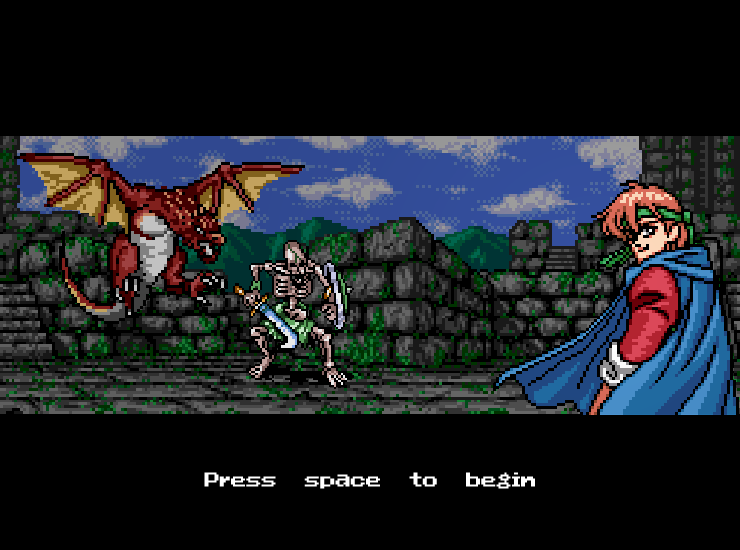
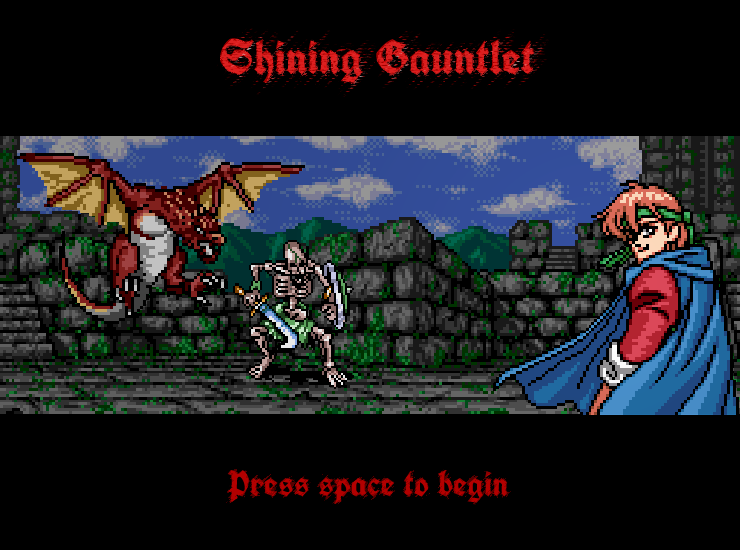
Added scenes between worlds, more NPCs, level 11

Changed region(s): [[0.2797, 0.0618, 0.7459, 0.1545], [0.2797, 0.8345, 0.7459, 0.9273]]

diff --git a/js/src/Game.js b/js/src/Game.js
@@ -18,7 +18,12 @@
 				themes ,
 				mapnum = 1 ,
 				showIntro = true,
-				gameStarted = false,
+				gameRunning = false,
+				worldscenes = [
+					[2,3],
+					[4,5],
+					[6,7]
+				],
 				tick = function(){
 				  //Renderer.clear();
 				  Gauntlet.Player.move();
@@ -26,6 +31,7 @@
 				  Gauntlet.MonsterSpawnerCollection.moveAllMonsters();
 				  Gauntlet.MissileLauncher.moveMissiles();
 				  Gauntlet.Renderer.render();
+				  Gauntlet.Stage.updateTime();
 				  if( Gauntlet.Boss.isActive() ){
 					Gauntlet.Boss.fire();
 					Gauntlet.Boss.moveMissiles();
@@ -70,16 +76,17 @@
 								}
 								// start tick
 								tick();
-								gameStarted = true;
+								gameRunning = true;
 							}
 							// listen for keyboard input
 							Gauntlet.Controller.listen();
 							// if showing the intro, restore themes, load scene 0
 							if( showIntro ){
 								restoreThemes();
-								Gauntlet.Scene.showAndWait( 0 , function(){
+								Gauntlet.Scene.showSequenceAndWait([0,1], function(){
 									nextTheme();
 									startTheGame();
+									Gauntlet.Stage.resetTime();
 									Gauntlet.Renderer.setLightning(true);
 								});
 								showIntro = false;
@@ -94,27 +101,35 @@
 				  window.clearTimeout( t );
 				},
 				nextLevel = function(){
-				  var nextWorld = ((mapnum % levelsperworld) === 0);
-				  stop();
-				  killAllSprites();
-				  mapnum++;
-				  if(mapnum === 2){
-				  	Gauntlet.Renderer.setShake(true);
-				  }
-				  if(mapnum === 4){
-				  	Gauntlet.Renderer.setShake(false);
-					Gauntlet.Renderer.setLightning(false);
-				  }
-				  if( mapnum === 9 ){
-				  	nextTheme();
-				  }
-				  if(nextWorld){
-				  	nextTheme();
-				  	if( mapnum === 7 || mapnum === 10 ){
-				  	  Gauntlet.Player.upgradeWeapon();
-				    }
-				  }
-				  start();
+					var nextWorld = ((mapnum % levelsperworld) === 0),
+						worldnum = ~~((mapnum) / levelsperworld);
+					stop();
+					killAllSprites();
+					Gauntlet.Dialog.killAll();
+					mapnum++;
+					if(mapnum === 2){
+						Gauntlet.Renderer.setShake(true);
+					}
+					if(mapnum === 4){
+						Gauntlet.Renderer.setShake(false);
+						Gauntlet.Renderer.setLightning(false);
+					}
+					if(mapnum === 9){
+						nextTheme();
+					}
+					if(nextWorld){
+						gameRunning = false;
+						Gauntlet.Scene.showSequenceAndWait(worldscenes[worldnum-1],function(){
+							nextTheme();
+							if(mapnum === 7 || mapnum === 10){
+								Gauntlet.Player.upgradeWeapon();
+							}
+							gameRunning = true;
+							start();
+						});
+					}else{
+						start();
+					}
 				},
 				restartLevel = function(){
 					stop();
@@ -143,7 +158,7 @@
 				 * returns true if the game is in progress - used by Controller to switch between showing a Scene or controlling the player
 				 */
 				gameInProgress = function(){
-					return gameStarted;
+					return gameRunning;
 				},
 				/**
 				 * end
@@ -155,7 +170,7 @@
 					Gauntlet.Player.reset();
 					mapnum = 1;
 					showIntro = true;
-					gameStarted = false;
+					gameRunning = false;
 					start();
 				},
 				killAllSprites = function(){

diff --git a/css/game.css b/css/game.css
@@ -28,7 +28,7 @@ h1 {
   width: 150px;
   height: 16px;
   display:inline-block;
-  outline:1px solid red;
+  outline:1px solid #C33;
   position:relative;
   top: 2px;
 }
@@ -36,7 +36,7 @@ h1 {
   position: absolute;
   height: 16px;
   width: 0;
-  background: red;
+  background: #C33;
 }
 .lives {
   color: red;
@@ -46,7 +46,6 @@ h1 {
   position: absolute;
   top: 5px;
   height:20px;
-  color: #fff;
   width: 734px;
   padding: 5px 5px;
 }
@@ -66,23 +65,36 @@ body {
   position: relative;
 }
 .dialog-message {
-  background: #111;
-  padding: 5px 10px;
-  color: white;
-  max-width:120px;
+  padding: 5px 7px;
+  max-width: 140px;
   -webkit-box-shadow: inset 0px 0px 5px rgba(0, 0, 0, 1);
   -moz-box-shadow:    inset 0px 0px 5px rgba(0, 0, 0, 1);
   box-shadow:         inset 0px 0px 5px rgba(0, 0, 0, 1);
-  text-shadow: 1px 1px 3px #000000;
+  -webkit-border-radius: 6px;
+  -moz-border-radius:    6px;
+  border-radius:         6px;
+  background: #000022;
+  background: -moz-linear-gradient(top,  #000022 0%, #154770 50%, #11426b 51%, #000022 100%); /* FF3.6+ */
+  background: -webkit-gradient(linear, left top, left bottom, color-stop(0%,#000022), color-stop(50%,#154770), color-stop(51%,#11426b), color-stop(100%,#000022)); /* Chrome,Safari4+ */
+  background: -webkit-linear-gradient(top,  #000022 0%,#154770 50%,#11426b 51%,#000022 100%); /* Chrome10+,Safari5.1+ */
+  background: -o-linear-gradient(top,  #000022 0%,#154770 50%,#11426b 51%,#000022 100%); /* Opera 11.10+ */
+  background: -ms-linear-gradient(top,  #000022 0%,#154770 50%,#11426b 51%,#000022 100%); /* IE10+ */
+  background: linear-gradient(top,  #000022 0%,#154770 50%,#11426b 51%,#000022 100%); /* W3C */
+  filter: progid:DXImageTransform.Microsoft.gradient( startColorstr='#000022', endColorstr='#000022',GradientType=0 ); /* IE6-9 */
+  -webkit-box-shadow: 0px 0px 7px 0px rgba(150, 150, 255, 1);
+  -moz-box-shadow: 0px 0px 7px 0px rgba(150, 150, 255, 1);
+  box-shadow: 0px 0px 7px 0px rgba(150, 150, 255, 1);
   border: 1px solid #aaa;
 }
 .dialog-message ,
 .hud {
   font-family: 'UnifrakturCook';
-  font-size: 16px;
+  font-size: 15px;
+  color: #eee;
 }
 .hud {
   font-size: 20px;
+  color: #C33;
 }
 /*font-family: 'UnifrakturCook', cursive;
 font-family: 'Spirax', cursive;

diff --git a/js/src/Stage.js b/js/src/Stage.js
@@ -16,6 +16,8 @@
 				$_health = {} ,
 				$_lives = {} ,
 				$_multiplier = {},
+				$_time = 0,
+				start_time = new Date(),
 				stageDims = {width:null,height:null},
 				ctx = null,
 				makeCanvas = function( w , h ){
@@ -35,6 +37,7 @@
 				  $_score = jQuery( '<span class="score"></span>' );
 				  $_lives = jQuery( '<span class="lives"></span>' );
 				  $_multiplier = jQuery( '<span class="multiplier"></span>' );
+				  $_time = jQuery( '<span class="multiplier"></span>' );
 				  $_hud.append( 'Health: ' );
 				  $_hud.append( $_health );
 				  $_hud.append( $_lives );
@@ -42,6 +45,8 @@
 				  $_hud.append( $_multiplier )
 				  $_hud.append( 'Score: ' );
 				  $_hud.append( $_score );
+				  $_hud.append( 'Time: ' );
+				  $_hud.append( $_time );
 				  jQuery( '.hud' ).append( $_hud );
 				},
 				/**
@@ -128,6 +133,21 @@
 					map.mapdata[ index ] = changeTo;
 					Gauntlet.Renderer.queueForUpdate( index );
 				},
+				resetTime = function(){
+					start_time = new Date();
+				},
+				formatTimeDiff = function(t){
+					var mins = ~~(t/60),
+						secs = ~~(t-(mins*60)),
+						minStr = (''+mins).length<2 ? '0':'',
+						secStr = (''+secs).length<2 ? '0':'';
+					return minStr + mins + ':' + secStr + secs;
+				},
+				updateTime = function(){
+					var timenow = new Date(),
+						diff = timenow.getTime() - start_time.getTime();
+					$_time.text( formatTimeDiff(diff/1000) );
+				},
 				setOpacity = function(v){
 					$_canvas.css({opacity:v});
 				};
@@ -148,7 +168,9 @@
 			  getWalkableMap:function(){return walkable_map.slice();},
 			  getContext:function(){return ctx;},
 			  getCanvas:function(){return $_canvas;},
-			  setOpacity:setOpacity
+			  setOpacity:setOpacity,
+			  resetTime:resetTime,
+			  updateTime:updateTime
 			};
 
 		})();

diff --git a/js/src/Scene.js b/js/src/Scene.js
@@ -10,24 +10,54 @@
 
 		Scene = (function(){
 
-			var rootPath = 'assets/sf2/' ,
+			var waitTime,
+				waitFor = 2000, // cannot skip for this many ms
+				rootPath = 'assets/sf2/' ,
 				scenes = [
-					'scene-start.png'
+					'scene-start.png',
+					'world1-start.png',
+					'world1-end.png',
+					'world2-start.png',
+					'world2-end.png',
+					'world3-start.png',
+					'world3-end.png',
+					'world4-start.png'
 				],
+				sequence = [],
 				onProceed = null,
-				showAndWait = function( sceneNum , cb ){
+				showAndWait = function(sceneNum, cb, data){
 					onProceed = cb;
-					Gauntlet.Renderer.drawScene( rootPath + scenes[ sceneNum ] );
+					Gauntlet.Renderer.drawScene(rootPath + scenes[ sceneNum ], data);
+					waitTime = new Date();
+				},
+				showSequenceAndWait = function(sceneNums,cb, data){
+					var firstScene = sceneNums.shift();
+					onProceed = cb;
+					sequence = sceneNums;
+					Gauntlet.Renderer.drawScene(rootPath + scenes[ firstScene ], data);
+					waitTime = new Date();
+				},
+				nextInSequence = function(){
+					var nextScene = sequence.shift();
+					Gauntlet.Renderer.drawScene(rootPath + scenes[ nextScene ]);
+					waitTime = new Date();
 				},
 				proceed = function(){
-					if( onProceed && _.isFunction(onProceed) ){
-						onProceed();
-						onProceed = null;
+					if(((new Date()).getTime() - waitTime.getTime()) > waitFor){
+						if(sequence.length){
+							nextInSequence();
+						}else{
+							if(onProceed && _.isFunction(onProceed)){
+								onProceed();
+								onProceed = null;
+							}
+						}
 					}
 				};
 			
 			return {
 				showAndWait:showAndWait,
+				showSequenceAndWait:showSequenceAndWait,
 				proceed:proceed
 			}
 

diff --git a/js/src/Renderer.js b/js/src/Renderer.js
@@ -114,11 +114,14 @@
 					drawTile( ox , oy , ox + tx , oy + ty , 'boss' , +( altSwitch > 5 ) , ''+bossType , null , ''+i );
 				  } );
 				},
-				drawScene = function( path ){
-					// load image then draw it into the canvas
+				drawScene = function(path, data){
+					// load image and draw it into the canvas
 					var preload = new Image();
 					preload.onload = function(){
 						ctx.drawImage( preload , 0 , 0 );
+						_(data).each(function(dataItem,k){
+console.log(dataItem,k);
+						});
 					}
 					preload.src = path;
 				},
@@ -194,7 +197,6 @@
 				 * updates the HUD - health bar etc
 				 */
 				updateHUD = function(){
-				  // todo don't use dom elements
 				  Gauntlet.Stage.updateHealth( Gauntlet.Player.getHealth() );
 				  Gauntlet.Stage.updateScore( Gauntlet.Player.getScore() );
 				  Gauntlet.Stage.updateLives( Gauntlet.Player.getLives() );

diff --git a/js/src/Dialog.js b/js/src/Dialog.js
@@ -27,9 +27,9 @@
 					self.hide();
 				},showTime);
 			},
-			hide: function(){
+			hide: function(howfast){
 				var self = this;
-				this.$el.fadeOut(fadeTime,function(){
+				this.$el.fadeOut(howfast||fadeTime,function(){
 					this.showing = false;
 					self.$el.remove();
 					if(self.onClose && _.isFunction(self.onClose)){
@@ -97,6 +97,12 @@
 							dialog.show($el);
 						}
 					});
+				},
+				killAll: function(){
+					_(dialogs).each(function(dialog){
+						dialog.hide(1);
+					});
+					dialogs = [];
 				},
 				init: function(){
 					var $appendTo = jQuery('.gamecontainer');

diff --git a/js/src/Player.js b/js/src/Player.js
@@ -26,6 +26,7 @@
 			module.weaponType = 1;
 			module.damage = 1;
 			module.weaponswitch = 1;
+			module.invincible = false;
 
 			module.beforeMoving = function(){
 				// if firing then fire
@@ -162,11 +163,12 @@
 			};
 
 			module.hurt = function( howmuch ){
-			  this.health -= howmuch;
-			  if( this.health < 1 ){
-				this.die();
-			  }
-			  Gauntlet.Renderer.updateHUD();
+				if(this.invincible){ return; }
+				this.health -= howmuch;
+				if( this.health < 1 ){
+					this.die();
+				}
+				Gauntlet.Renderer.updateHUD();
 			};
 
 			module.heal = function( howmuch ){

diff --git a/js/src/Monster.js b/js/src/Monster.js
@@ -111,7 +111,7 @@
 				  this.damage = 6;
 				  this.pointsWorth = 50;
 				  this.weaponSpeed = 4;
-				  this.health = 3;
+				  this.health = 6;
 				  this.pathfinder = true;
 				  break;
 				default:
